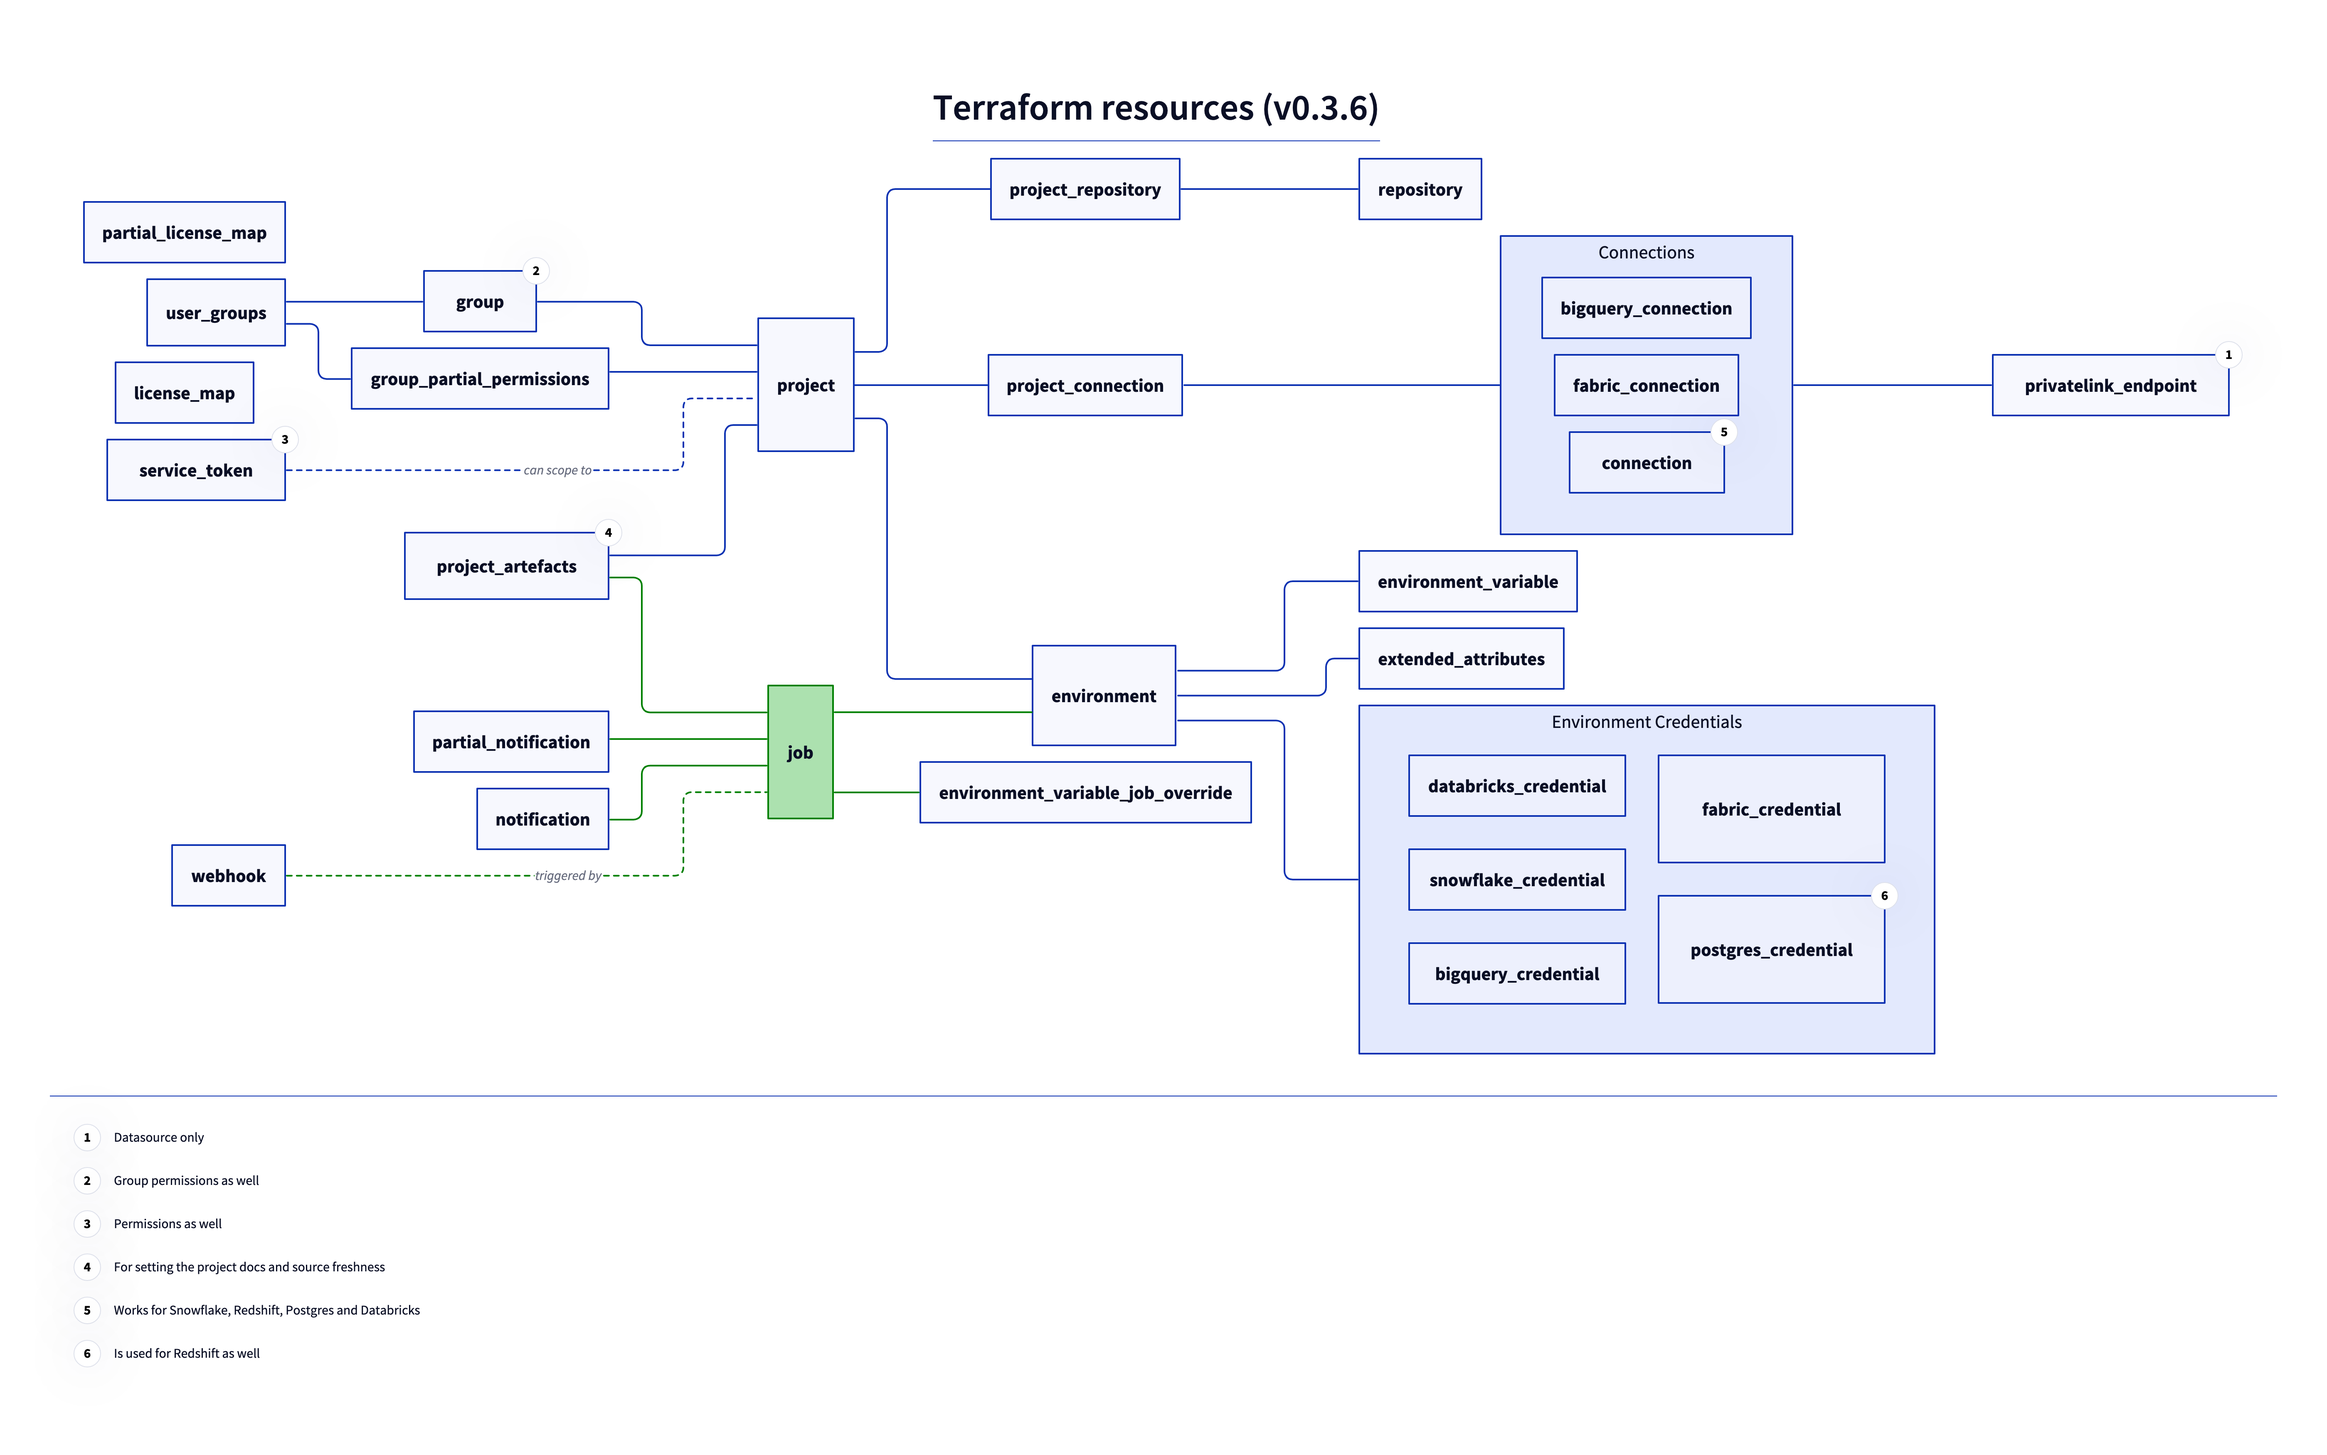
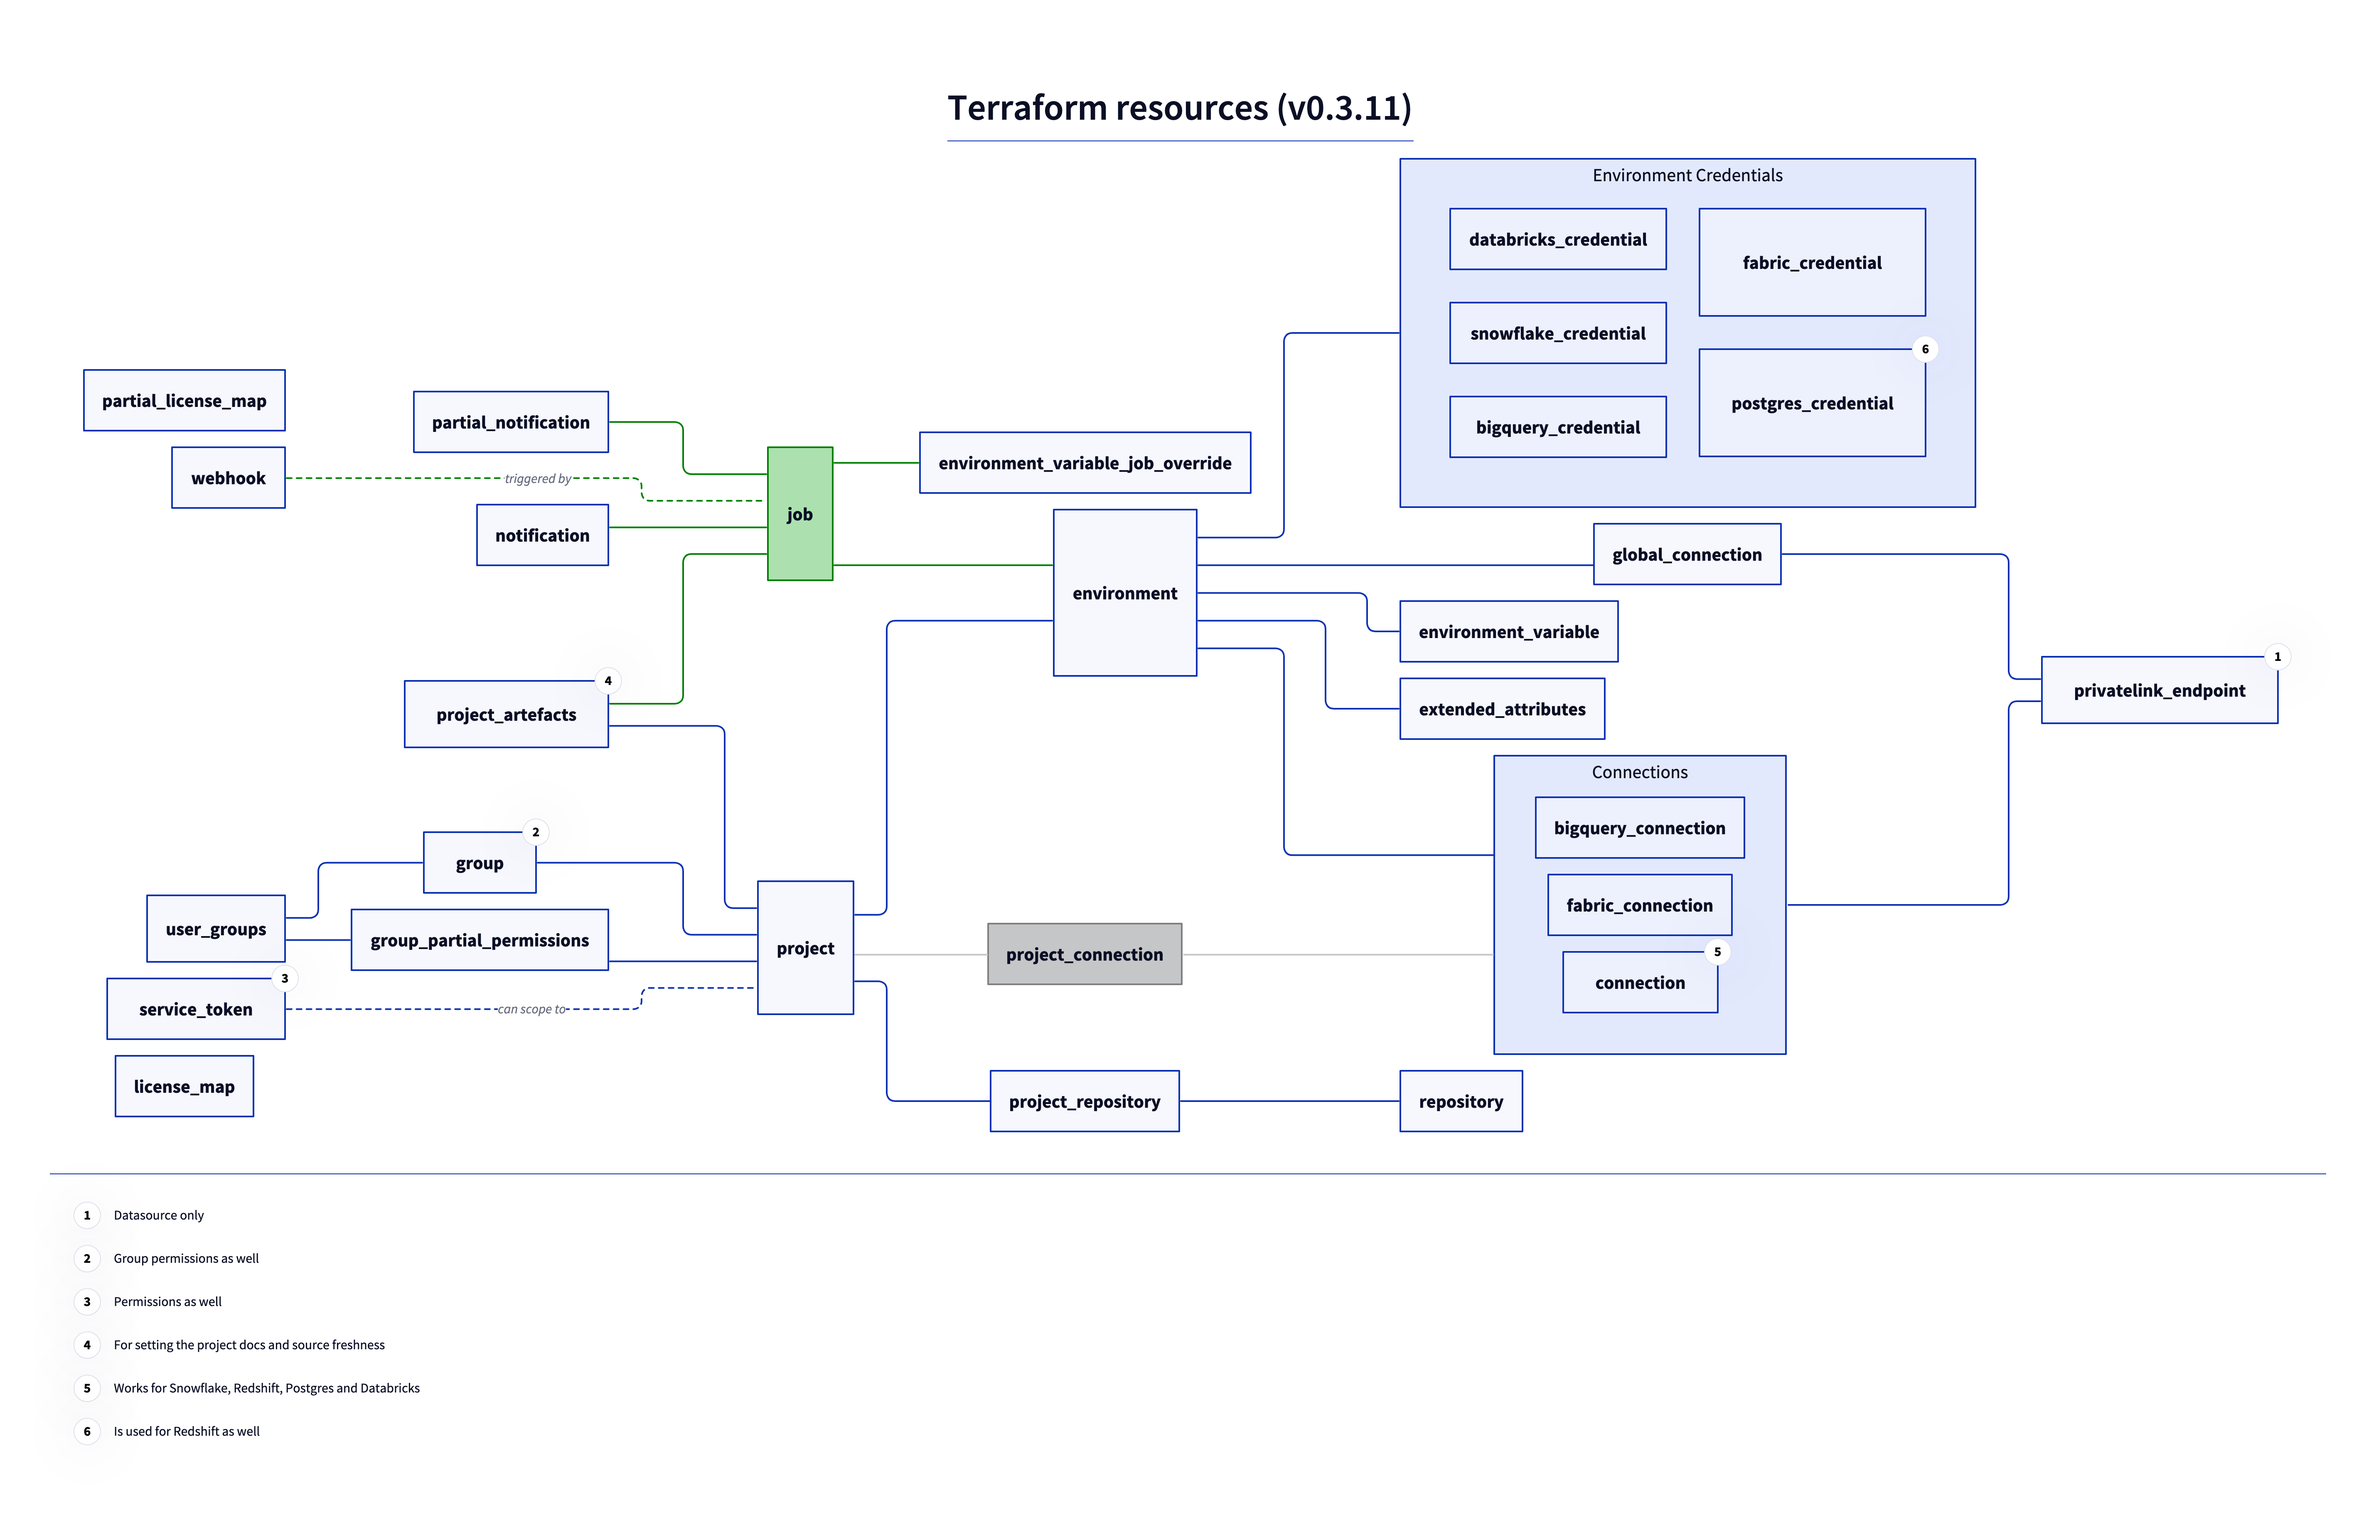
Update docs and changelog

diff --git a/docs/resources/global_connection.md b/docs/resources/global_connection.md
@@ -2,68 +2,111 @@
 page_title: "dbtcloud_global_connection Resource - dbtcloud"
 subcategory: ""
 description: |-
-  
+  This resource can be used to create global connections as introduced in dbt Cloud in August 2024.
+  Those connections are not linked to a project and can be linked to environments from different projects by using the connection_id field in the dbtcloud_environment resource.
+  For now, only BigQuery and Snowflake connections are supported and the other Data Warehouses can continue using the existing resources dbtcloud_connection and dbtcloud_fabric_connection ,
+  but all Data Warehouses will soon be supported under this resource and the other ones will be deprecated in the future.
 ---
 
 # dbtcloud_global_connection (Resource)
 
 
+This resource can be used to create global connections as introduced in dbt Cloud in August 2024.
 
+Those connections are not linked to a project and can be linked to environments from different projects by using the `connection_id` field in the `dbtcloud_environment` resource.
 
+For now, only BigQuery and Snowflake connections are supported and the other Data Warehouses can continue using the existing resources `dbtcloud_connection` and `dbtcloud_fabric_connection` , 
+but all Data Warehouses will soon be supported under this resource and the other ones will be deprecated in the future.
 
+## Example Usage
+
+```terraform
+resource "dbtcloud_global_connection" "snowflake" {
+  name = "My Snowflake connection"
+  // we can set Privatelink if needed
+  private_link_endpoint_id = data.dbtcloud_privatelink_endpoint.my_private_link.id
+  snowflake = {
+    account                   = "my-snowflake-account"
+    database                  = "MY_DATABASE"
+    warehouse                 = "MY_WAREHOUSE"
+    client_session_keep_alive = false
+    allow_sso                 = true
+    oauth_client_id           = "yourclientid"
+    oauth_client_secret       = "yourclientsecret"
+  }
+}
+
+resource "dbtcloud_global_connection" "bigquery" {
+  name = "My BigQuery connection"
+  bigquery = {
+    gcp_project_id              = "my-gcp-project-id"
+    timeout_seconds             = 1000
+    private_key_id              = "my-private-key-id"
+    private_key                 = "ABCDEFGHIJKL"
+    client_email                = "my_client_email"
+    client_id                   = "my_client_id"
+    auth_uri                    = "my_auth_uri"
+    token_uri                   = "my_token_uri"
+    auth_provider_x509_cert_url = "my_auth_provider_x509_cert_url"
+    client_x509_cert_url        = "my_client_x509_cert_url"
+    application_id              = "oauth_application_id"
+    application_secret          = "oauth_secret_id"
+  }
+}
+```
 
 <!-- schema generated by tfplugindocs -->
 ## Schema
 
 ### Required
 
-- `name` (String)
+- `name` (String) Connection name
 
 ### Optional
 
 - `bigquery` (Attributes) (see [below for nested schema](#nestedatt--bigquery))
-- `oauth_configuration_id` (Number)
-- `private_link_endpoint_id` (Number)
-- `snowflake` (Attributes) (see [below for nested schema](#nestedatt--snowflake))
+- `private_link_endpoint_id` (String) Private Link Endpoint ID. This ID can be found using the `privatelink_endpoint` data source
+- `snowflake` (Attributes) Snowflake connection configuration (see [below for nested schema](#nestedatt--snowflake))
 
 ### Read-Only
 
-- `adapter_version` (String)
-- `id` (Number) The ID of this resource.
-- `is_ssh_tunnel_enabled` (Boolean)
+- `adapter_version` (String) Version of the adapter
+- `id` (Number) Connection Identifier
+- `is_ssh_tunnel_enabled` (Boolean) Whether the connection can use an SSH tunnel
+- `oauth_configuration_id` (Number)
 
 <a id="nestedatt--bigquery"></a>
 ### Nested Schema for `bigquery`
 
 Required:
 
-- `application_id` (String) OAuth Client ID
-- `application_secret` (String) OAuth Client Secret
-- `auth_provider_x509_cert_url` (String)
-- `auth_uri` (String)
-- `client_email` (String)
-- `client_id` (String)
-- `client_x509_cert_url` (String)
-- `gcp_project_id` (String)
-- `private_key` (String)
-- `private_key_id` (String)
-- `timeout_seconds` (Number)
-- `token_uri` (String)
+- `auth_provider_x509_cert_url` (String) Auth Provider X509 Cert URL for the Service Account
+- `auth_uri` (String) Auth URI for the Service Account
+- `client_email` (String) Service Account email
+- `client_id` (String) Client ID of the Service Account
+- `client_x509_cert_url` (String) Client X509 Cert URL for the Service Account
+- `gcp_project_id` (String) The GCP project ID to use for the connection
+- `private_key` (String, Sensitive) Private Key for the Service Account
+- `private_key_id` (String) Private Key ID for the Service Account
+- `token_uri` (String) Token URI for the Service Account
 
 Optional:
 
-- `dataproc_cluster_name` (String)
-- `dataproc_region` (String)
-- `execution_project` (String)
-- `gcs_bucket` (String)
-- `impersonate_service_account` (String)
-- `job_creation_timeout_seconds` (Number)
-- `job_retry_deadline_seconds` (Number)
-- `location` (String)
-- `maximum_bytes_billed` (Number)
-- `priority` (String)
-- `retries` (Number)
-- `scopes` (Set of String)
+- `application_id` (String, Sensitive) OAuth Client ID
+- `application_secret` (String, Sensitive) OAuth Client Secret
+- `dataproc_cluster_name` (String) Dataproc cluster name for PySpark workloads
+- `dataproc_region` (String) Google Cloud region for PySpark workloads on Dataproc
+- `execution_project` (String) Project to bill for query execution
+- `gcs_bucket` (String) URI for a Google Cloud Storage bucket to host Python code executed via Datapro
+- `impersonate_service_account` (String) Service Account to impersonate when running queries
+- `job_creation_timeout_seconds` (Number) Maximum timeout for the job creation step
+- `job_retry_deadline_seconds` (Number) Total number of seconds to wait while retrying the same query
+- `location` (String) Location to create new Datasets in
+- `maximum_bytes_billed` (Number) Max number of bytes that can be billed for a given BigQuery query
+- `priority` (String) The priority with which to execute BigQuery queries (batch or interactive)
+- `retries` (Number) Number of retries for queries
+- `scopes` (Set of String) OAuth scopes for the BigQuery connection
+- `timeout_seconds` (Number) Timeout in seconds for queries
 
 
 <a id="nestedatt--snowflake"></a>
@@ -71,14 +114,14 @@ Optional:
 
 Required:
 
-- `account` (String)
-- `database` (String)
-- `warehouse` (String)
+- `account` (String) The Snowflake account name
+- `database` (String) The default database for the connection
+- `warehouse` (String) The default Snowflake Warehouse to use for the connection
 
 Optional:
 
-- `allow_sso` (Boolean)
-- `client_session_keep_alive` (Boolean)
-- `oauth_client_id` (String, Sensitive)
-- `oauth_client_secret` (String, Sensitive)
-- `role` (String)
+- `allow_sso` (Boolean) Whether to allow Snowflake OAuth for the connection. If true, the `oauth_client_id` and `oauth_client_secret` fields must be set
+- `client_session_keep_alive` (Boolean) If true, the snowflake client will keep connections for longer than the default 4 hours. This is helpful when particularly long-running queries are executing (> 4 hours)
+- `oauth_client_id` (String, Sensitive) OAuth Client ID. Required to allow OAuth between dbt Cloud and Snowflake
+- `oauth_client_secret` (String, Sensitive) OAuth Client Secret. Required to allow OAuth between dbt Cloud and Snowflake
+- `role` (String) The Snowflake role to use when running queries on the connection

diff --git a/CHANGELOG.md b/CHANGELOG.md
@@ -2,11 +2,23 @@
 
 All notable changes to this project will be documented in this file.
 
-## [Unreleased](https://github.com/dbt-labs/terraform-provider-dbtcloud/compare/v0.3.10...HEAD)
+## [Unreleased](https://github.com/dbt-labs/terraform-provider-dbtcloud/compare/v0.3.11...HEAD)
+
+# [0.3.11](https://github.com/dbt-labs/terraform-provider-dbtcloud/compare/v0.3.9...v0.3.11)
 
 ### Changes
 
+- [#267](https://github.com/dbt-labs/terraform-provider-dbtcloud/issues/267) Support for global connections
+  - `dbtcloud_environment` now accepts a `connection_id` to link the environment to the connection. This is the new recommended way to link connections to environments instead of linking the connection to the project with `dbtcloud_project_connection`
+    - The `dbtcloud_project_connection` still works today and when used doesn't require setting up a `connection_id` in the `dbtcloud_environment` resource (i.e. , any current config/module should continue working), but the resource is flagged as deprecated and will be removed in a future version of the provider
+  - For now, people can continue using the project-scoped connection resources `dbtcloud_connection`, `dbtcloud_bigquery_connection` and `dbtcloud_fabric_connection` for creating and updating global connections. The parameter `project_id` in those connections still need to be a valid project id but doesn't mean that this connection is restricted to this project ID. The project-scoped connections created from Terraform are automatically converted to global connections
+  - A new resource `dbtcloud_global_connection` has been created and currently supports Snowflake and BigQuery connections. In the next weeks, support for all the Data Warehouses will be added to this resource
+    - When a data warehouse is supported in `dbtcloud_global_connection`, we recommend using this new resource instead of the legacy project-scoped connection resources. Those resources will be deprecated in a future version of the provider.
 - [#278](https://github.com/dbt-labs/terraform-provider-dbtcloud/pull/278) Deprecate `state` attribute in the resources and datasources that use it. It will be removed in the next major version of the provider. This attribute is used for soft-delete and isn't intended to be configured in the scope of the provider.
+
+### Fix
+
+- [#281](https://github.com/dbt-labs/terraform-provider-dbtcloud/issues/281) Fix the datasource `dbcloud_environments` where the environment IDs were not being saved
 
 # [0.3.10](https://github.com/dbt-labs/terraform-provider-dbtcloud/compare/v0.3.9...v0.3.10)
 

diff --git a/docs/data-sources/privatelink_endpoint.md b/docs/data-sources/privatelink_endpoint.md
@@ -43,5 +43,5 @@ data "dbtcloud_privatelink_endpoint" "test_with_name_and_url" {
 
 - `cidr_range` (String) The CIDR range of the PrivateLink Endpoint
 - `id` (String) The internal ID of the PrivateLink Endpoint
-- `state` (Number) PrivatelinkEndpoint state should be 1 = active, as 2 = deleted
+- `state` (Number, Deprecated) PrivatelinkEndpoint state should be 1 = active, as 2 = deleted
 - `type` (String) Type of the PrivateLink Endpoint

diff --git a/docs/data-sources/project.md b/docs/data-sources/project.md
@@ -43,4 +43,4 @@ data "dbtcloud_project" "test_project" {
 - `freshness_job_id` (Number) ID of Job for source freshness
 - `id` (String) The ID of this resource.
 - `repository_id` (Number) ID of the repository associated with the project
-- `state` (Number) Project state should be 1 = active, as 2 = deleted
+- `state` (Number, Deprecated) Project state should be 1 = active, as 2 = deleted

diff --git a/docs/resources/extended_attributes.md b/docs/resources/extended_attributes.md
@@ -51,7 +51,7 @@ resource "dbtcloud_environment" "issue_depl" {
 
 ### Optional
 
-- `state` (Number) Extended Attributes state (1 is active, 2 is inactive)
+- `state` (Number, Deprecated) Extended Attributes state (1 is active, 2 is inactive)
 
 ### Read-Only
 
